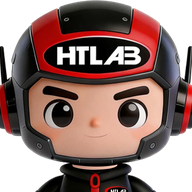
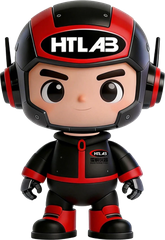
助手头像改用吉祥物全身像

diff --git a/web/src/styles/preview.css b/web/src/styles/preview.css
@@ -200,5 +200,5 @@ button.sess-file:hover { background: #ebebe8; color: var(--ink); }
 }
 
 /* 助手头像：公司吉祥物 */
-.chat-avatar.mascot { background: #fff; border: 1px solid var(--line); overflow: hidden; padding: 0; }
-.chat-avatar.mascot img { width: 100%; height: 100%; object-fit: cover; display: block; }
+.chat-avatar.mascot { background: none; border: none; border-radius: 0; padding: 0; width: 30px !important; height: 44px !important; align-items: flex-start; }
+.chat-avatar.mascot img { width: 100%; height: 100%; object-fit: contain; object-position: top center; display: block; }
